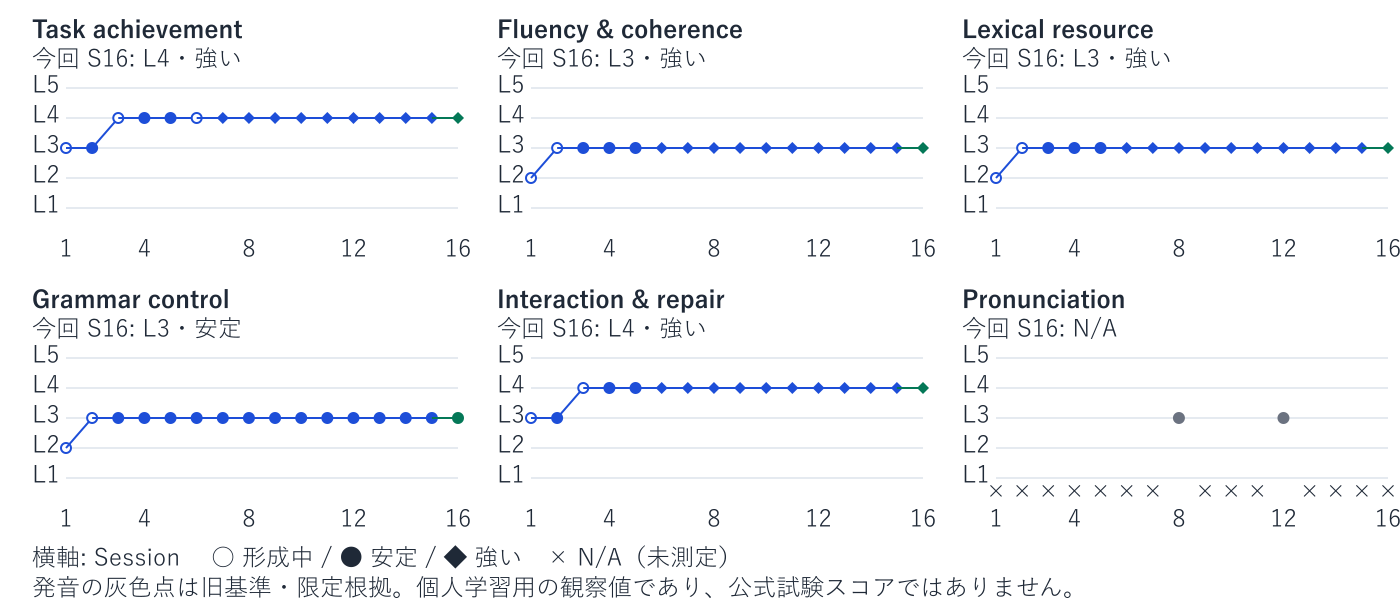
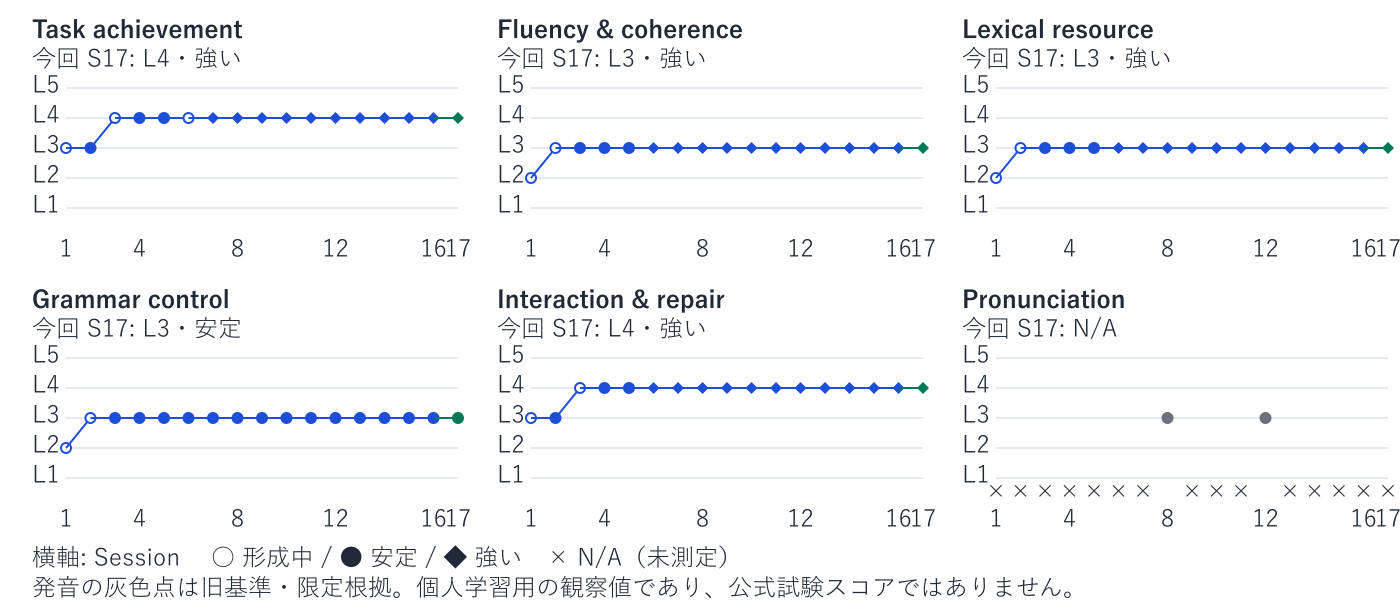
Record Session 17 weather discussion and update journal report

diff --git a/site-src/assets/stylesheets/journal-print.css b/site-src/assets/stylesheets/journal-print.css
@@ -152,6 +152,7 @@
   .growth-page h3 { margin: 4mm 0 2mm !important; }
   .growth-page--change p { margin: 1mm 0 !important; line-height: 1.35 !important; }
   .growth-page--change .growth-insight p:first-of-type { display: none !important; }
+  .growth-page--change .growth-insight small { display: none !important; }
   .growth-intro { margin: 0 0 2mm !important; font-size: 10.5pt !important; }
   .profile-row { grid-template-columns: minmax(0,1.5fr) minmax(0,.8fr) minmax(0,.8fr) !important; padding: 1mm 2mm !important; font-size: 10.5pt !important; break-inside: avoid; }
   .profile-row small { font-size: 9pt !important; }

diff --git a/learning-records/journal.md b/learning-records/journal.md
@@ -8,6 +8,7 @@
 
 - [今日の5分復習](#journal-five-minute-review)
 - [英会話セッション](#journal-sessions)
+  - [Session 17 — 週末の過ごし方とAI天気予報の産業への影響](#session-2026-09-27-01)
   - [Session 16 — GCP Pub/SubとAWSの比較・英語力評価の見直し](#session-2026-09-26-01)
   - [Session 15 — キャリアの転機とAWS・GCPの設計比較](#session-2026-09-25-01)
   - [Session 14 — AIモデルの費用・性能比較と英語読書の進展](#session-2026-09-24-01)
@@ -32,6 +33,27 @@
 <a id="journal-five-minute-review"></a>
 
 # 今日の5分復習
+
+<details>
+<summary>物理モデルとAIの組合せを尋ねる</summary>
+
+**How do they combine physics and AI to make predictions?**
+
+</details>
+
+<details>
+<summary>天気予報の産業面への関心を伝える</summary>
+
+**I'm interested in how weather forecasts affect industry, especially solar and wind power.**
+
+</details>
+
+<details>
+<summary>記事に根拠があるか確認する</summary>
+
+**Does the article actually say that?**
+
+</details>
 
 <details>
 <summary>Pub/SubをAWSに対応づけて説明する</summary>
@@ -68,6 +90,85 @@
 <a id="journal-sessions"></a>
 
 # 英会話セッション / Sessions
+
+<!-- session-meta: {"session_number":17,"session_id":"2026-09-27-01","date":"2026-09-27","title":"週末の過ごし方とAI天気予報の産業への影響","tags":["Daily Life","Workweek","AI / Tech","Weather","Energy"],"remember":"2日・3日の休みを交互にすると楽しみと仕事のリズムを両立できる。AI天気予報は日常の便利さだけでなく太陽光・風力の計画にも関わる。記事の主張と自分の推測を分ける。","prompt":"How can physics-based analysis and AI work together in weather forecasting, and why does that matter to energy companies?"} -->
+<a id="session-2026-09-27-01"></a>
+
+## 2026年9月27日（日）— 週末の過ごし方とAI天気予報の産業への影響
+
+> **Session 17 / Recorded session window:** Late morning to midday JST
+> **主な話題:** 野球の練習、2日・3日休みの交互運用、AI天気予報、太陽光・風力、物理とAIの役割
+
+### 今日の要点 / Today at a Glance
+
+Yukiは野球の練習で疲れた翌朝によく眠れたと話し、会話を自分で労働時間の議論へ移した。毎週3日休むより、2日休みと3日休みを交互にする案を提案した。3連休なら野球、読書や学習を伴う休息、翌週に向けた準備を一日ずつ置く。ただし「休むこと自体も準備」と補足した。
+
+次に技術ニュースを希望し、[GoogleのWeatherNext 3紹介記事](https://blog.google/innovation-and-ai/models-and-research/google-deepmind/introducing-weathernext-3/)をブラウザーで確認した。日常では傘を持つ判断に便利だが、産業、とくに太陽光・風力発電の計画への影響が大きいと考えた。従来の物理ベースの予報とAIをどう組み合わせるかを掘り下げ、最後にChappyの精度に関する説明が記事に本当にあるかを確認した。
+
+### 話題別メモ / Topic Notes
+
+#### 交互に長い週末をつくる
+
+Yukiの案は、2日休みの週と3日休みの週を交互にすること。長い休みが毎週続くと少し長く感じ、通常の2日だけでは短いという感覚から出た。3日目の「仕事の準備」は重い作業ではなく、休息や勉強も含むという本人の定義が重要だった。
+
+#### AI天気予報と電力計画
+
+Yukiは、一般利用者にとって短時間先の予報は傘や予定の便利さだが、企業では発電量と需給の計画に影響し得ると視点を広げた。太陽光には日射、風力には風の見通しが関わる。ただし実際の発電事業者に対する利益や費用削減額をこの会話だけで実証したわけではない。
+
+[Googleの発表](https://blog.google/innovation-and-ai/models-and-research/google-deepmind/introducing-weathernext-3/)では、WeatherNext 3が近時の衛星観測と大気の解析データを入力に使い、予報を毎時更新すると説明している。[研究論文](https://arxiv.org/abs/2609.03582)も、物理に基づく大気解析と衛星画像をAI予報の入力に使う構成を示す。これはAIが各ステップで物理方程式をそのまま解くという意味ではない。物理法則は安定していても、観測の不足や初期条件への敏感さから予報には不確実性が残る。
+
+記事は降水予報について、**1日以上先の一部比較で最大50%の改善**を述べる。Chappyは当初「特に短期・局地で精度が上がる」と広く言いすぎた。Yukiが記事の根拠を確認した後、この範囲へ言い直した。すべての場所・時刻・指標で50%改善したという意味ではない。
+
+### Yukiの意見・結論 / Yuki’s Takeaways
+
+1. 2日・3日休みを交互にすると、休みへの期待と仕事のリズムを両立しやすそうだ。
+2. AI天気予報の価値は個人の便利さだけでなく、太陽光・風力などの産業利用にある。
+3. 物理の安定した法則と、変化する観測データを生かすAIのバランスが重要だ。記事の主張と推測は区別して聞きたい。
+
+### 役立つ英語 / Useful English
+
+**Yukiの実発話（ASR）:** “how... Uh, do they... fusion... the physics and AI... predicting”
+
+**最小修正:** “How do they combine physics and AI to make predictions?”
+
+**Why / Chunk:** 動詞は `combine A and B`、目的は `to make predictions`。`fusion` は通常ここでは名詞。発話の細部はASRのため、音声上の確定誤り件数には数えない。
+
+**内容をまとめる学習用表現:** “I'm interested in how weather forecasts affect industry, especially solar and wind power.” Yukiの関心を整理した文で、原文そのままの発話ではない。
+
+### 発音・スピーキング / Speaking & Pronunciation
+
+**今回の新規Pronunciation総合レベル: N/A（判定保留）。前回の最終実測: Session 12のL3・安定（旧基準・限定根拠）。** 今回は音声そのものを直接解析・総合聴取していない。ASR上の言い直しや文字列から個別音、強勢、リズム、話速を採点しない。`game` を `practice` に自力で言い直したことや、クイズではなく議論を希望したことは対話修復の根拠とする。
+
+### 英語力の成長メモ / English Growth & Evaluation
+
+3連休の計画を具体的な順序で説明し、天気予報の議論を生活上の便利さからエネルギー産業へ広げた。記事を根拠にChappyの説明を問い直した点も強い。複雑な質問には言い直しや語探しが残ったが、ASR文字起こしだけで速度や冠詞・前置詞の誤り件数は確定しない。Session 16と話題・支援・収録条件が異なるため、数値が同じでも変化率は判定しない。
+
+| Metric | 今回 | 前回 | 比較 | 今回の根拠と制約 |
+|---|---|---|---|---|
+| Task achievement | **L4・強い** | L4・強い | 維持 | 休み方の案を具体化し、天気予報の産業利用・仕組み・記事根拠まで自分の目的で追った。 |
+| Fluency & coherence | **L3・強い** | L3・強い | 比較不能 | 3日間の計画と技術議論の筋を保った。ASRだけで話速や間の改善は測らない。 |
+| Lexical resource | **L3・強い** | L3・強い | 比較不能 | 野球、太陽光・風力、物理、スーパーコンピューターなどを自発的に使った。記事・Chappy由来の語は除く。 |
+| Grammar control | **L3・安定** | L3・安定 | 比較不能 | 意図は通じるが複雑な疑問文の組立てには揺れがある。ASRが不確かな箇所は要確認。 |
+| Interaction & repair | **L4・強い** | L4・強い | 維持 | `practice`への自己修正、話題・会話形式の変更、根拠の確認を自分で行った。 |
+| Pronunciation | **N/A** | N/A（最終実測 Session 12 L3・安定） | 比較不能 | 今回は直接音声評価なし。 |
+
+### 学習バンク更新 / Study Banks Update
+
+- [Expression Bank](#journal-expression-bank): 新規1件（物理とAIを組み合わせる質問）
+- [Vocabulary Bank](#journal-vocabulary-bank): 追加なし
+- [Pronunciation & Speaking Bank](#journal-speaking-bank): 追加なし
+
+### 次回 / Next Steps
+
+AI天気予報について、自分が重視する効果を先に一文で述べ、理由と一例を続ける。記事に根拠があるか確かめる姿勢を保つ。
+
+### Sources / References
+
+[Google: Introducing WeatherNext 3](https://blog.google/innovation-and-ai/models-and-research/google-deepmind/introducing-weathernext-3/) · [WeatherNext 3 research paper](https://arxiv.org/abs/2609.03582)
+
+[ページ先頭へ戻る](#journal-contents) · [Session Index](#journal-sessions)
+
+---
 
 <!-- session-meta: {"session_number":16,"session_id":"2026-09-26-01","date":"2026-09-26","title":"GCP Pub/SubとAWSの比較・英語力評価の見直し","tags":["Cloud","GCP / AWS","Technical Reading","English Growth"],"remember":"Pub/Subはイベントを非同期で分配する。AWSではSNSが配信、SNSとSQSの組合せがサービスごとの独立処理に近い。英語力は数値だけでなく行動の根拠と比較条件で見る。","prompt":"How does Pub/Sub compare with SNS and SQS, and what evidence shows progress in my English?"} -->
 <a id="session-2026-09-26-01"></a>
@@ -1864,7 +1965,7 @@ Why: 改善点には work on / focus on が自然。
 ## できるようになったこと
 
 **最新の直接発音評価： [Session 12（2026年9月6日）](#session-2026-09-06-01)**
-**最新の会話評価： [Session 16（2026年9月26日）](#session-2026-09-26-01)**
+**最新の会話評価： [Session 17（2026年9月27日）](#session-2026-09-27-01)**
 
 - 旅行など身近な話題から、AI・エネルギー・文化のような抽象的なテーマまで、意見と理由をつないで話せる。
 - 分からない語や質問の意図を確認し、誤解を自分で修復できる。
@@ -1875,6 +1976,7 @@ Why: 改善点には work on / focus on が自然。
 - モデルの費用と独立ベンチマークを区別し、比較図にないモデルを指摘して対象を広げられる。英語読書では、以前約1年かけた小説と、現在一日で40ページ進んだ小説を比べ、学習法の効果を説明できる。
 - 馴染みのあるAWSサービスからGCPへの比較へ会話を修正し、IoT設計では利用者の速度と技術者の追跡可能性を区別して、設計前の要件定義へ結論を導ける。
 - GCP Pub/Subの技術記事を英語で読み、分からない語を確認したうえで、既知のAWSのSNS・SQSとの対応を質問できる。欲しい図と表、読む記事、採点の根拠も自分から指定できる。
+- 週末の計画を具体的に説明し、AI天気予報を日常の便利さから発電産業への影響へ広げられる。記事が実際に主張している範囲を確認し、Chappyの言いすぎを問い直した。
 - 本人は英語が以前より出やすいと感じている。回収済みraw transcriptの自発発話だけを比べると、Session 11・12より14・16で修復・明示的な語探しの表面化が少なく、平均発話長は概ね維持された。ただし話題・ASR区間・収録条件が異なり、固定課題の同条件反復測定はまだない。能力レベルの自動昇格には使わない。
 - 直接録音では、技術英文を聞き取りやすい速度で読み、モデル名や複合語の練習点を音声根拠から絞り込める。
 
@@ -1887,40 +1989,41 @@ Why: 改善点には work on / focus on が自然。
 | **Session 1** | 身近な旅行の話は成立したが、流暢さ・語彙・文法はL2形成中。ここを観察上の出発点とする。 |
 | **Session 3** | 面接テーマで結論と理由を自力で展開し、Task achievementとInteraction & repairがL4形成中へ到達。 |
 | **Session 6** | 複数の技術・業務論点を目的へまとめたため、Task achievementを従来のL3から**L4形成中**へ訂正。 |
-| **Session 7〜16** | 抽象的な技術・文化・キャリアの話題を維持し、自発的な修復も安定。TaskとInteractionはL4強い、FluencyとLexicalはL3強い。Session 16では技術記事を読んで未知語を確認し、AWSとの比較へ自分から議論を進めた。自発発話の記述的比較は別図に示すが、同条件の固定課題がないため能力の改善率は主張しない。 |
+| **Session 7〜17** | 抽象的な技術・文化・キャリアの話題を維持し、自発的な修復も安定。TaskとInteractionはL4強い、FluencyとLexicalはL3強い。Session 17ではAI天気予報の産業利用と記事根拠へ議論を進めた。自発発話の記述的比較は別図に示すが、同条件の固定課題がないため能力の改善率は主張しない。 |
 | **Pronunciation** | 直接音声があるSession 8・12だけL3安定。課題文が異なるため、両者の優劣や過去回への遡及採点は行わない。 |
 
 ## Current Snapshot
 
 | 評価観点 | 現在 | 会話で確認できたこと |
 |---|---:|---|
-| **Task achievement** | **L4・強い / Session 16** | 記事の理解からAWS比較という自分の学習目標へ進み、必要な図・表も指定した。 |
-| **Fluency & coherence** | **L3・強い / Session 16** | 語探しや再構成を挟みつつ、設備イベントと英語評価の話題を保った。直近の速度変化は未測定。 |
-| **Lexical resource** | **L3・強い / Session 16** | 既知の技術語を使い、記事の未知語は自分で確認した。教わった語を自力使用済みとは数えない。 |
-| **Grammar control** | **L3・安定 / Session 16** | 対比や質問の意味は明瞭。語形・語順に揺れがあり、ASR不確かな細部は確定誤りにしない。 |
-| **Interaction & repair** | **L4・強い / Session 16** | ブラウザー記事への転換、知らない語、採点ルール、図・表の希望を自発的に明確化した。 |
-| **Pronunciation** | **N/A / 今回 Session 16** | 過去の最終記録はSession 12 L3・安定（旧基準・限定根拠）。ASR・波形中心の旧評価を、現基準の音声総合審査済みと読み替えない。 |
+| **Task achievement** | **L4・強い / Session 17** | 週末案を具体化し、天気予報の産業利用・AIと物理・記事根拠へ議論を進めた。 |
+| **Fluency & coherence** | **L3・強い / Session 17** | 長い計画と技術議論の筋を保った。話速・間の変化は音声未確認で測らない。 |
+| **Lexical resource** | **L3・強い / Session 17** | 野球、発電、物理などを自発的に使った。記事・Chappy由来の語は自力使用済みと数えない。 |
+| **Grammar control** | **L3・安定 / Session 17** | 意図は通じるが複雑な疑問文の組立てに揺れがある。ASRの不確かな細部は要確認。 |
+| **Interaction & repair** | **L4・強い / Session 17** | 自己修正、話題・会話形式の変更、記事の根拠確認を自発的に行った。 |
+| **Pronunciation** | **N/A / 今回 Session 17** | 今回は直接音声評価なし。過去の最終記録はSession 12 L3・安定（旧基準・限定根拠）。 |
 
 ## 発音の測定状況
 
-過去の最終Pronunciation記録はSession 12の **L3・安定** です。ただし旧手順の限定的な根拠による評価であり、現在求める個別音・強勢・リズム等の総合聴取を満たした新評価とは区別します。過去値自体は再採点していません。Session 16では約50.3秒の標準音読をローカル処理し、音割れなし・ASR語一致率約96.5%・認識語ベース約107語/分を確認しましたが、**今回の新規総合レベルはN/A**です。
+過去の最終Pronunciation記録はSession 12の **L3・安定** です。ただし旧手順の限定的な根拠による評価であり、現在求める個別音・強勢・リズム等の総合聴取を満たした新評価とは区別します。過去値自体は再採点していません。Session 16では約50.3秒の標準音読をローカル処理しましたが、総合判定はN/Aでした。Session 17は直接音声評価を行っておらず、**今回の新規総合レベルもN/A**です。
 
 ## 成長グラフ
 
-[![Session 1からSession 15までの英語力成長グラフ](media/progress/english-growth-evidence-dashboard.png)](media/progress/english-growth-evidence-dashboard.png)
+[![Session 1からSession 17までの英語力成長グラフ](media/progress/english-growth-evidence-dashboard.png)](media/progress/english-growth-evidence-dashboard.png)
 
-Session 1から16までの6指標を、横軸Session・縦軸Lの時系列で表示しています。同じL内の **形成中・安定・強い** はマーカー形状で区別します。N/Aは欠測として残し、線で補間しません。Session 8・12の発音点は旧基準・限定根拠として灰色で表示します。点の間隔やマーカー形状を公式試験の精密な尺度と解釈しないでください。
+Session 1から17までの6指標を、横軸Session・縦軸Lの時系列で表示しています。同じL内の **形成中・安定・強い** はマーカー形状で区別します。N/Aは欠測として残し、線で補間しません。Session 8・12の発音点は旧基準・限定根拠として灰色で表示します。点の間隔やマーカー形状を公式試験の精密な尺度と解釈しないでください。
 
 ## 次に伸ばすこと
 
-1. 次回は仮想イベントを一つ選び、Pub/SubとSNS + SQSの流れを自分の短い言葉で説明する。
-2. `Which AWS service is most similar to ...?` を別のクラウド比較にも使う。
+1. 次回はAI天気予報など身近な技術について、まず結論を一文で述べ、理由と一例を続ける。
+2. `How do they combine A and B to ...?` を別の技術の仕組みにも使う。
 3. 本人が希望する時に固定自発発話課題の初回基準点を取り、語探しや間を今後同条件で比べる。
 
 ## 評価セッションを開く
 
 各リンク先には、その回の評価根拠と次の練習があります。
 
+- [Session 17 — 週末の過ごし方とAI天気予報の産業への影響](#session-2026-09-27-01) — 会話5観点はL4 / L3 / L3 / L3 / L4。発音はN/A。記事の根拠を確認し、過大な精度説明を修正させた。
 - [Session 16 — GCP Pub/SubとAWSの比較・英語力評価の見直し](#session-2026-09-26-01) — 会話5観点はL4 / L3 / L3 / L3 / L4。今回の総合PronunciationはN/A。新手順で観点別の根拠・比較条件を示し、語探しの直近改善率は未確認とした。
 - [Session 15 — キャリアの転機とAWS・GCPの設計比較](#session-2026-09-25-01) — 会話評価：L4 / L3 / L3 / L3 / L4、発音は未測定。比較の前提を修正し、速度と追跡可能性を要件として論じた。
 - [Session 14 — AIモデルの費用・性能比較と英語読書の進展](#session-2026-09-24-01) — 会話評価：L4 / L3 / L3 / L3 / L4、発音は未測定。技術比較を具体化し、書名の誤解を自分で修復。
@@ -1943,19 +2046,19 @@ Session 1から16までの6指標を、横軸Session・縦軸Lの時系列で表
 | 試験・尺度 | 学習用レンジ | 最後に根拠を更新した回 |
 |---|---:|---:|
 | TOEIC L&R | **820–900 / 990** | Session 8 |
-| TOEIC Speaking | **140–160 / 200** | Session 16 |
+| TOEIC Speaking | **140–160 / 200** | Session 17 |
 | TOEIC Writing | **140–160 / 200** | Session 8 |
-| IELTS Speaking | **Band 5.5–6.5** | Session 16 |
-| TOEFL iBT Speaking | **3.5–4.0 / 6（旧尺度目安 18–22 / 30）** | Session 16 |
-| Cambridge English | **155–170（B1上位〜B2）** | Session 16 |
-| CEFR 会話 | **B1+–B2** | Session 16 |
-| ACTFL Speaking | **Intermediate High–Advanced Low** | Session 16 |
+| IELTS Speaking | **Band 5.5–6.5** | Session 17 |
+| TOEFL iBT Speaking | **3.5–4.0 / 6（旧尺度目安 18–22 / 30）** | Session 17 |
+| Cambridge English | **155–170（B1上位〜B2）** | Session 17 |
+| CEFR 会話 | **B1+–B2** | Session 17 |
+| ACTFL Speaking | **Intermediate High–Advanced Low** | Session 17 |
 
 [![資格スコア予測の推移グラフ](media/progress/english-test-score-estimate-trends.png)](media/progress/english-test-score-estimate-trends.png)
 
-試験ごとに異なる尺度を分離して表示しています。全履歴の再監査では、十分な会話根拠が残るSession 1・3・7を過去の節目として遡及追加しました。たとえばTOEIC Speakingは **100–125 → 125–145 → 135–155 → 現在140–160**、IELTS Speakingは **Band 4.0–5.0 → 5.0–6.0 → 5.5–6.0 → 現在5.5–6.5** という広い低確度レンジです。Session 16は技術記事の理解からAWS比較へ会話を進めた根拠をSpeaking・oral interactionの6種別へ接続したが、公式形式の課題や総合発音の新規判定はなく、レンジを維持しました。これは新しい測定値で点数の上昇を証明したという意味ではありません。TOEIC L&RとWritingは直接対応する時間制限付き課題がないため、Session 8を最終根拠として維持します。画像をタップすると原寸で確認できます。
+試験ごとに異なる尺度を分離して表示しています。全履歴の再監査では、十分な会話根拠が残るSession 1・3・7を過去の節目として遡及追加しました。たとえばTOEIC Speakingは **100–125 → 125–145 → 135–155 → 現在140–160**、IELTS Speakingは **Band 4.0–5.0 → 5.0–6.0 → 5.5–6.0 → 現在5.5–6.5** という広い低確度レンジです。Session 17は週末案の説明と、天気予報の記事に根拠を求めた対話をSpeaking・oral interactionの6種別へ接続したが、公式形式の課題や総合発音の新規判定はなく、レンジを維持しました。これは新しい測定値で点数の上昇を証明したという意味ではありません。TOEIC L&RとWritingは直接対応する時間制限付き課題がないため、Session 8を最終根拠として維持します。画像をタップすると原寸で確認できます。
 
-いずれも公式形式の試験結果ではなく、会話記録に基づく学習計画用のレンジです。最新のSpeaking・oral interactionの根拠は[Session 16の評価](#session-2026-09-26-01)で確認できます。
+いずれも公式形式の試験結果ではなく、会話記録に基づく学習計画用のレンジです。最新のSpeaking・oral interactionの根拠は[Session 17の評価](#session-2026-09-27-01)で確認できます。
 
 ## 評価の読み方
 
@@ -1966,6 +2069,12 @@ L1からL5は、**Strong support → Supported → Mostly independent → Indepe
 <a id="journal-expression-bank"></a>
 
 # 表現バンク / Expression Bank
+
+## 2026年9月27日
+
+| Expression | Meaning / Usage / Example | Source |
+|---|---|---|
+| **How do they combine physics and AI to make predictions?** | 物理ベースの方法とAIの併用を尋ねる。Yukiの実際の質問意図を短い形へ整えた。**Chunk:** How do they combine A and B to ...? | [Session 17](#session-2026-09-27-01) |
 
 ## 2026年9月26日
 
